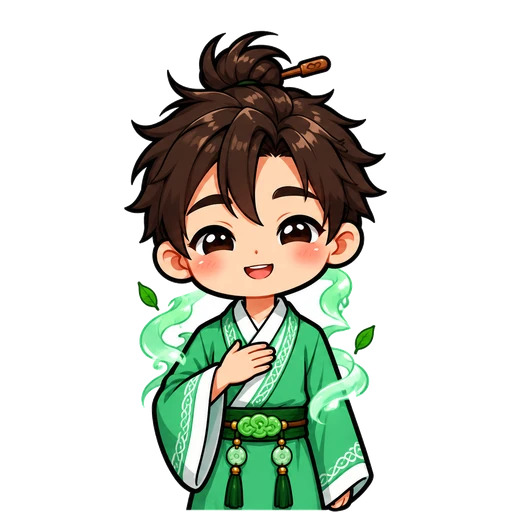
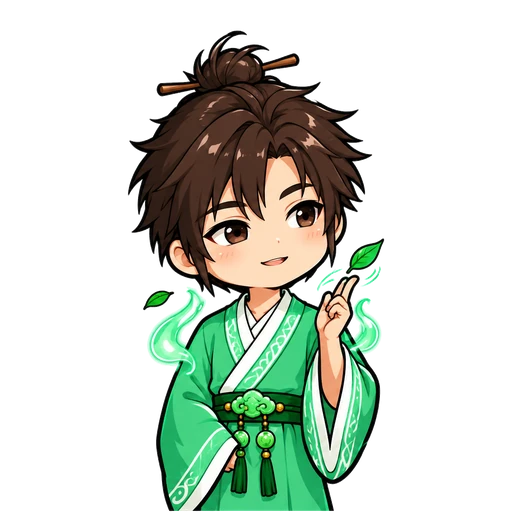
主角金丹「喜」換新（兩指撥葉）

Changed region(s): [[0.25, 0.0625, 0.75, 1.0]]

diff --git a/game.js b/game.js
@@ -52,7 +52,7 @@ ${f}\u6B47\u4E00\u6703\u5152\uFF0C\u9AD4\u529B\u56DE\u4F86\u4E86\u5C31\u80FD\u51
 \u9EDE\u300C\u5C71\u9580\u300D\uFF0C\u770B\u770B\u600E\u9EBC\u8A17\u4EBA\u4E0B\u5C71\u3002`,nudge:"\u5148\u9EDE\u4EAE\u8D77\u4F86\u7684\u300C\u5C71\u9580\u300D"}:null},p=k=>k?`${k.id}:${Math.round(k.rect.x)},${Math.round(k.rect.y)}`:"none",m=()=>{n=!0,i=null,c.spot(),c.pointAt(null)},g=k=>{o?.remove(),o=a.time.delayedCall(k,y)};function y(){if(s)return;m();let k=f();if(l=p(k),!k){g(250);return}i=k,c.say(k.text),c.spot(k.rect),c.pointAt({x:k.rect.x+k.rect.w/2,y:k.rect.y+k.rect.h/2},0,k.rect,k.dir),n=!1}let b=a.time.addEvent({delay:200,loop:!0,callback:()=>{s||n||p(f())===l||(m(),g(450))}});function w(k){s||(s=!0,o?.remove(),b.remove(),c.destroy(),e?.(k))}return a.events.once("shutdown",()=>w("scene")),c.say(u),t.prepare?.(),g(800),{finish:w}}function Ni(a,t,e){let s=!1,i=null,n=!0,o=null,r=0,l=null,c=null,d=Ws(a,()=>b("skip"),{confirmSkip:!0,depth:6500,onBlocked:()=>u()}),u=()=>{if(s||n||!i||i.end)return;let w=a.time.now;w-r<1200||(r=w,d.pulse(),i.nudge&&V(a,i.nudge,void 0,1600,void 0,He))},f=w=>w?`${w.id}:${w.rect?`${Math.round(w.rect.x)},${Math.round(w.rect.y)}`:""}`:"none",p=()=>{n=!0,i=null,c?.(),c=null,d.spot(),d.pointAt(null)},m=w=>{o?.remove(),o=a.time.delayedCall(w,g)};function g(){if(s)return;p();let w=t.next();if(l=f(w),!w){m(250);return}if(i=w,d.say(w.text),w.rect&&(d.spot(w.rect),d.pointAt({x:w.rect.x+w.rect.w/2,y:w.rect.y+w.rect.h/2},0,w.rect,w.dir)),w.end){let k=()=>{c=null,b("done")},A=a.time.delayedCall(800,()=>a.input.once("pointerup",k));c=()=>{A.remove(),a.input.off("pointerup",k)}}n=!1}let y=a.time.addEvent({delay:200,loop:!0,callback:()=>{s||n||f(t.next())===l||(p(),m(450))}});function b(w){s||(s=!0,o?.remove(),y.remove(),c?.(),d.destroy(),e?.(w))}return a.events.once("shutdown",()=>b("scene")),t.hello&&d.say(t.hello),t.prepare?.(),m(800),{finish:b}}var Hi=()=>`${location.origin}${location.pathname}?ref=share`,Do="\u6211\u5728\u73A9\u300A\u4FEE\u4ED9\u5408\u4F75\uFF1A\u88C2\u754C\u91CD\u751F\u300B\uFF1A\u91CD\u751F\u56DE\u5C11\u5E74\uFF0C\u5F9E\u4E00\u5EA7\u7834\u843D\u9053\u89C0\u4FEE\u8D77\u3002\u514D\u5B89\u88DD\uFF0C\u624B\u6A5F\u9EDE\u958B\u5C31\u80FD\u73A9\u3002";function Io(a){Ct("share-click");let t=()=>{let e=()=>{Ct("share-copy"),a?.("\u9023\u7D50\u5DF2\u8907\u88FD\uFF0C\u8CBC\u7D66\u9053\u53CB\u5C31\u884C\u3002")};try{if(navigator.clipboard?.writeText){navigator.clipboard.writeText(`${Do}
 ${Hi()}`).then(e,()=>a?.(`\u628A\u9019\u500B\u7DB2\u5740\u50B3\u7D66\u9053\u53CB\uFF1A
 ${Hi()}`));return}}catch{}a?.(`\u628A\u9019\u500B\u7DB2\u5740\u50B3\u7D66\u9053\u53CB\uFF1A
-${Hi()}`)};try{if(navigator.share){navigator.share({title:"\u4FEE\u4ED9\u5408\u4F75\uFF1A\u88C2\u754C\u91CD\u751F",text:Do,url:Hi()}).then(()=>Ct("share-done"),e=>{e?.name!=="AbortError"&&t()});return}}catch{}t()}var Ge="1.0.24",Ln=!1;function Cl(a){if(Ln)return;Ln=!0;let t=document.createElement("div");t.style.cssText="position:fixed;inset:0;z-index:99999;background:rgba(28,26,23,.72);display:flex;align-items:center;justify-content:center;padding:16px;";let e=document.createElement("div");e.style.cssText='max-width:340px;width:100%;background:#FFF4DC;border:3px solid #5A3A22;border-radius:18px;padding:22px 20px;text-align:center;font-family:"Noto Sans TC","PingFang TC",sans-serif;color:#3A332C;box-shadow:0 6px 24px rgba(0,0,0,.35);',e.innerHTML=`<div style="font-size:22px;font-weight:700;margin-bottom:10px">\u904A\u6232\u66F4\u65B0\u4E86</div><div style="font-size:17px;line-height:1.6;margin-bottom:18px">\u6709\u65B0\u7684\u7248\u672C ${a}\uFF08\u4F60\u73FE\u5728\u662F ${Ge}\uFF09\u3002<br>\u91CD\u65B0\u6574\u7406\u5C31\u80FD\u73A9\u5230\u65B0\u7248\uFF0C\u9032\u5EA6\u4E0D\u6703\u4E0D\u898B\u3002</div>`;let s=document.createElement("button");s.textContent="\u91CD\u65B0\u6574\u7406",s.style.cssText="font-size:20px;font-weight:700;padding:12px 36px;border-radius:14px;border:3px solid #2B1D14;background:#C8453A;color:#FFFDF6;cursor:pointer;",s.onclick=()=>{let i=new URLSearchParams(location.search);i.set("v",a),location.replace(`${location.pathname}?${i}`)},e.appendChild(s),t.appendChild(e),document.body.appendChild(t)}async function Fn(){if(!(Ge==="dev"||Ln||document.hidden))try{let a=await fetch(`version.json?t=${Date.now()}`,{cache:"no-store"});if(!a.ok)return;let t=(await a.json())?.version;t&&t!==Ge&&Cl(t)}catch{}}function Fo(){Ge!=="dev"&&(setTimeout(Fn,5e3),setInterval(Fn,10*60*1e3),document.addEventListener("visibilitychange",()=>{document.hidden||Fn()}))}var zo={enc(a){let t="";for(let e=0;e<a.length;e+=32768)t+=String.fromCharCode(...a.subarray(e,e+32768));return btoa(t).replace(/\+/g,"-").replace(/\//g,"_").replace(/=+$/,"")},dec(a){let t=atob(a.replace(/-/g,"+").replace(/_/g,"/"));return Uint8Array.from(t,e=>e.charCodeAt(0))}},No=a=>{let t=2166136261;for(let e=0;e<a.length;e++)t=Math.imul(t^a.charCodeAt(e),16777619);return(t>>>0).toString(36).slice(-4).padStart(4,"0")};async function Ho(a,t){let e=new Response(new Blob([a]).stream().pipeThrough(new t("deflate-raw")));return new Uint8Array(await e.arrayBuffer())}async function Tl(){h.save();let a=new TextEncoder().encode(JSON.stringify(h.d)),t="XH0",e=a;if(typeof CompressionStream<"u")try{e=await Ho(a,CompressionStream),t="XH1"}catch{e=a}let s=`${t}-${zo.enc(e)}`;return`${s}-${No(s)}`}async function _l(a){let e=String(a||"").replace(/\s+/g,"").match(/^(XH[01])-([A-Za-z0-9_-]+)-([0-9a-z]{4})$/);if(!e)return{ok:!1,why:"\u9019\u4E0D\u662F\u5F15\u7E7C\u78BC\uFF0C\u8ACB\u6574\u4E32\u5B8C\u6574\u8CBC\u4E0A\u3002"};if(No(`${e[1]}-${e[2]}`)!==e[3])return{ok:!1,why:"\u5F15\u7E7C\u78BC\u4E0D\u5B8C\u6574\uFF08\u53EF\u80FD\u5C11\u8CBC\u4E86\u4E00\u622A\uFF09\uFF0C\u8ACB\u91CD\u65B0\u8907\u88FD\u3002"};try{let s=zo.dec(e[2]);if(e[1]==="XH1"){if(typeof DecompressionStream>"u")return{ok:!1,why:"\u9019\u500B\u700F\u89BD\u5668\u592A\u820A\uFF0C\u8B80\u4E0D\u4E86\u5F15\u7E7C\u78BC\uFF0C\u8ACB\u63DB Chrome \u6216 Safari\u3002"};s=await Ho(s,DecompressionStream)}let i=JSON.parse(new TextDecoder().decode(s));return!i||i.v!==3||!Array.isArray(i.board)?{ok:!1,why:"\u9019\u7D44\u5F15\u7E7C\u78BC\u7684\u7248\u672C\u592A\u820A\uFF0C\u8B80\u4E0D\u4E86\u3002"}:{ok:!0,d:i}}catch{return{ok:!1,why:"\u5F15\u7E7C\u78BC\u8B80\u4E0D\u51FA\u4F86\uFF0C\u8ACB\u78BA\u8A8D\u662F\u5B8C\u6574\u7684\u4E00\u4E32\u3002"}}}function El(a){a.rev=Math.max(a.rev||0,wi())+1;try{localStorage.setItem(Le,JSON.stringify(a))}catch{return!1}return h.save=()=>{},location.reload(),!0}var Lo="xh-backup-css";function Go(){if(document.getElementById(Lo))return;let a=document.createElement("style");a.id=Lo,a.textContent=`
+${Hi()}`)};try{if(navigator.share){navigator.share({title:"\u4FEE\u4ED9\u5408\u4F75\uFF1A\u88C2\u754C\u91CD\u751F",text:Do,url:Hi()}).then(()=>Ct("share-done"),e=>{e?.name!=="AbortError"&&t()});return}}catch{}t()}var Ge="1.0.25",Ln=!1;function Cl(a){if(Ln)return;Ln=!0;let t=document.createElement("div");t.style.cssText="position:fixed;inset:0;z-index:99999;background:rgba(28,26,23,.72);display:flex;align-items:center;justify-content:center;padding:16px;";let e=document.createElement("div");e.style.cssText='max-width:340px;width:100%;background:#FFF4DC;border:3px solid #5A3A22;border-radius:18px;padding:22px 20px;text-align:center;font-family:"Noto Sans TC","PingFang TC",sans-serif;color:#3A332C;box-shadow:0 6px 24px rgba(0,0,0,.35);',e.innerHTML=`<div style="font-size:22px;font-weight:700;margin-bottom:10px">\u904A\u6232\u66F4\u65B0\u4E86</div><div style="font-size:17px;line-height:1.6;margin-bottom:18px">\u6709\u65B0\u7684\u7248\u672C ${a}\uFF08\u4F60\u73FE\u5728\u662F ${Ge}\uFF09\u3002<br>\u91CD\u65B0\u6574\u7406\u5C31\u80FD\u73A9\u5230\u65B0\u7248\uFF0C\u9032\u5EA6\u4E0D\u6703\u4E0D\u898B\u3002</div>`;let s=document.createElement("button");s.textContent="\u91CD\u65B0\u6574\u7406",s.style.cssText="font-size:20px;font-weight:700;padding:12px 36px;border-radius:14px;border:3px solid #2B1D14;background:#C8453A;color:#FFFDF6;cursor:pointer;",s.onclick=()=>{let i=new URLSearchParams(location.search);i.set("v",a),location.replace(`${location.pathname}?${i}`)},e.appendChild(s),t.appendChild(e),document.body.appendChild(t)}async function Fn(){if(!(Ge==="dev"||Ln||document.hidden))try{let a=await fetch(`version.json?t=${Date.now()}`,{cache:"no-store"});if(!a.ok)return;let t=(await a.json())?.version;t&&t!==Ge&&Cl(t)}catch{}}function Fo(){Ge!=="dev"&&(setTimeout(Fn,5e3),setInterval(Fn,10*60*1e3),document.addEventListener("visibilitychange",()=>{document.hidden||Fn()}))}var zo={enc(a){let t="";for(let e=0;e<a.length;e+=32768)t+=String.fromCharCode(...a.subarray(e,e+32768));return btoa(t).replace(/\+/g,"-").replace(/\//g,"_").replace(/=+$/,"")},dec(a){let t=atob(a.replace(/-/g,"+").replace(/_/g,"/"));return Uint8Array.from(t,e=>e.charCodeAt(0))}},No=a=>{let t=2166136261;for(let e=0;e<a.length;e++)t=Math.imul(t^a.charCodeAt(e),16777619);return(t>>>0).toString(36).slice(-4).padStart(4,"0")};async function Ho(a,t){let e=new Response(new Blob([a]).stream().pipeThrough(new t("deflate-raw")));return new Uint8Array(await e.arrayBuffer())}async function Tl(){h.save();let a=new TextEncoder().encode(JSON.stringify(h.d)),t="XH0",e=a;if(typeof CompressionStream<"u")try{e=await Ho(a,CompressionStream),t="XH1"}catch{e=a}let s=`${t}-${zo.enc(e)}`;return`${s}-${No(s)}`}async function _l(a){let e=String(a||"").replace(/\s+/g,"").match(/^(XH[01])-([A-Za-z0-9_-]+)-([0-9a-z]{4})$/);if(!e)return{ok:!1,why:"\u9019\u4E0D\u662F\u5F15\u7E7C\u78BC\uFF0C\u8ACB\u6574\u4E32\u5B8C\u6574\u8CBC\u4E0A\u3002"};if(No(`${e[1]}-${e[2]}`)!==e[3])return{ok:!1,why:"\u5F15\u7E7C\u78BC\u4E0D\u5B8C\u6574\uFF08\u53EF\u80FD\u5C11\u8CBC\u4E86\u4E00\u622A\uFF09\uFF0C\u8ACB\u91CD\u65B0\u8907\u88FD\u3002"};try{let s=zo.dec(e[2]);if(e[1]==="XH1"){if(typeof DecompressionStream>"u")return{ok:!1,why:"\u9019\u500B\u700F\u89BD\u5668\u592A\u820A\uFF0C\u8B80\u4E0D\u4E86\u5F15\u7E7C\u78BC\uFF0C\u8ACB\u63DB Chrome \u6216 Safari\u3002"};s=await Ho(s,DecompressionStream)}let i=JSON.parse(new TextDecoder().decode(s));return!i||i.v!==3||!Array.isArray(i.board)?{ok:!1,why:"\u9019\u7D44\u5F15\u7E7C\u78BC\u7684\u7248\u672C\u592A\u820A\uFF0C\u8B80\u4E0D\u4E86\u3002"}:{ok:!0,d:i}}catch{return{ok:!1,why:"\u5F15\u7E7C\u78BC\u8B80\u4E0D\u51FA\u4F86\uFF0C\u8ACB\u78BA\u8A8D\u662F\u5B8C\u6574\u7684\u4E00\u4E32\u3002"}}}function El(a){a.rev=Math.max(a.rev||0,wi())+1;try{localStorage.setItem(Le,JSON.stringify(a))}catch{return!1}return h.save=()=>{},location.reload(),!0}var Lo="xh-backup-css";function Go(){if(document.getElementById(Lo))return;let a=document.createElement("style");a.id=Lo,a.textContent=`
   .xh-mask{position:fixed;inset:0;z-index:50;background:rgba(20,18,15,.72);display:flex;align-items:center;justify-content:center;padding:16px;touch-action:auto}
   .xh-card{width:min(440px,100%);background:#F3ECDD;color:#1C1A17;border:3px solid #6b4e2e;border-radius:18px;padding:20px 18px 16px;font:16px/1.6 "Noto Sans TC","PingFang TC",sans-serif;box-shadow:0 10px 30px rgba(0,0,0,.4)}
   .xh-card h3{margin:0 0 6px;font:700 22px/1.4 "LXGW WenKai TC",serif;text-align:center}

diff --git a/index.html b/index.html
@@ -18,6 +18,6 @@
 <body>
   <div id="game"></div>
   <script src="vendor/phaser.min.js"></script>
-  <script type="module" src="game.js?v=91a9d2f"></script>
+  <script type="module" src="game.js?v=e6ed714"></script>
 </body>
 </html>
